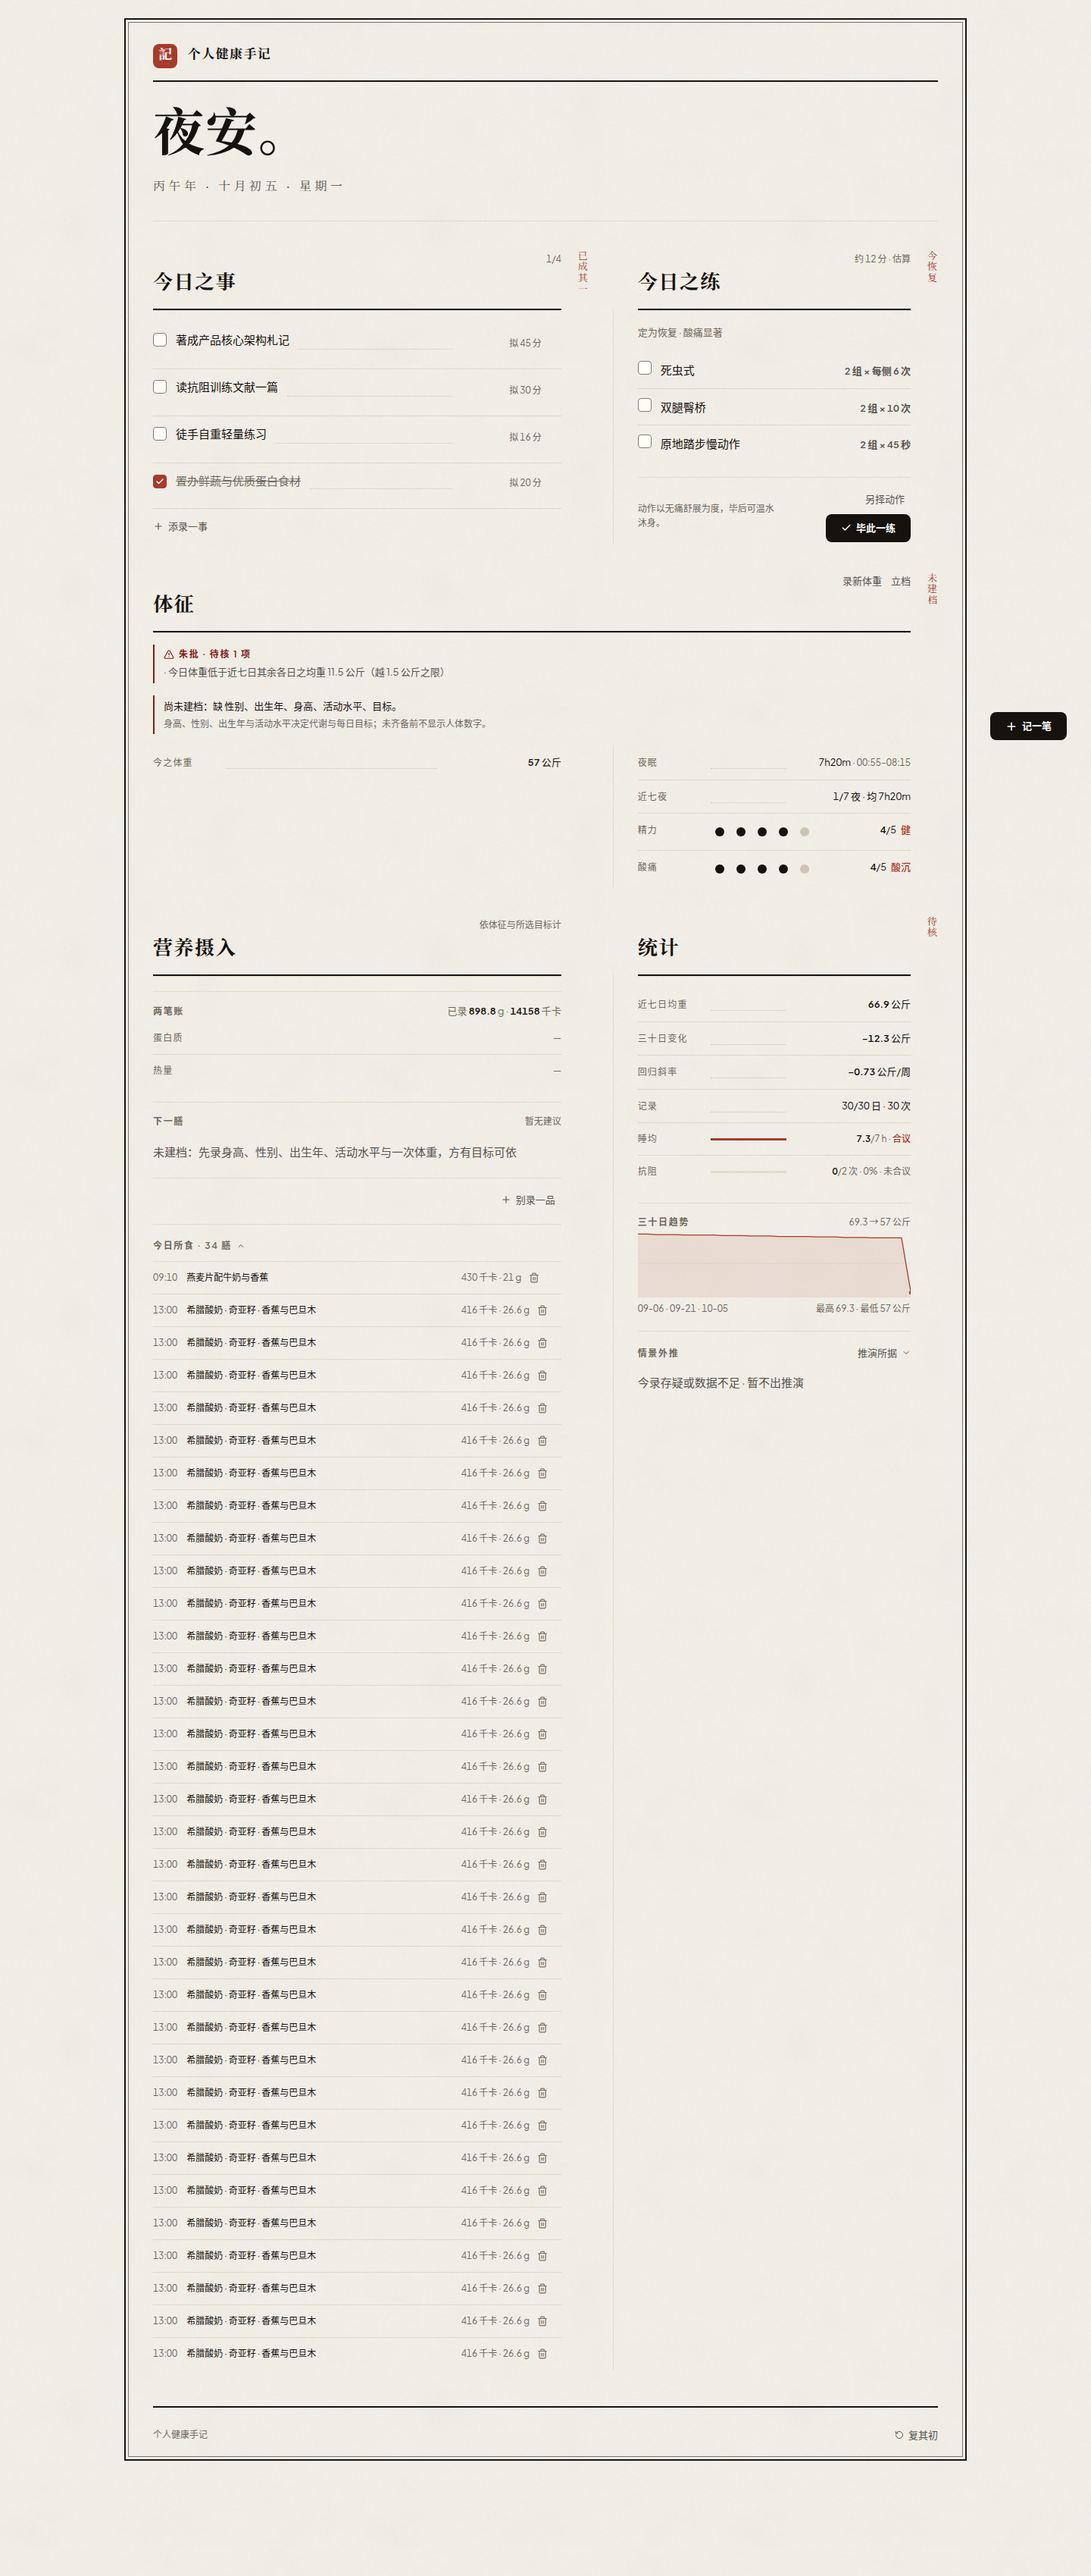
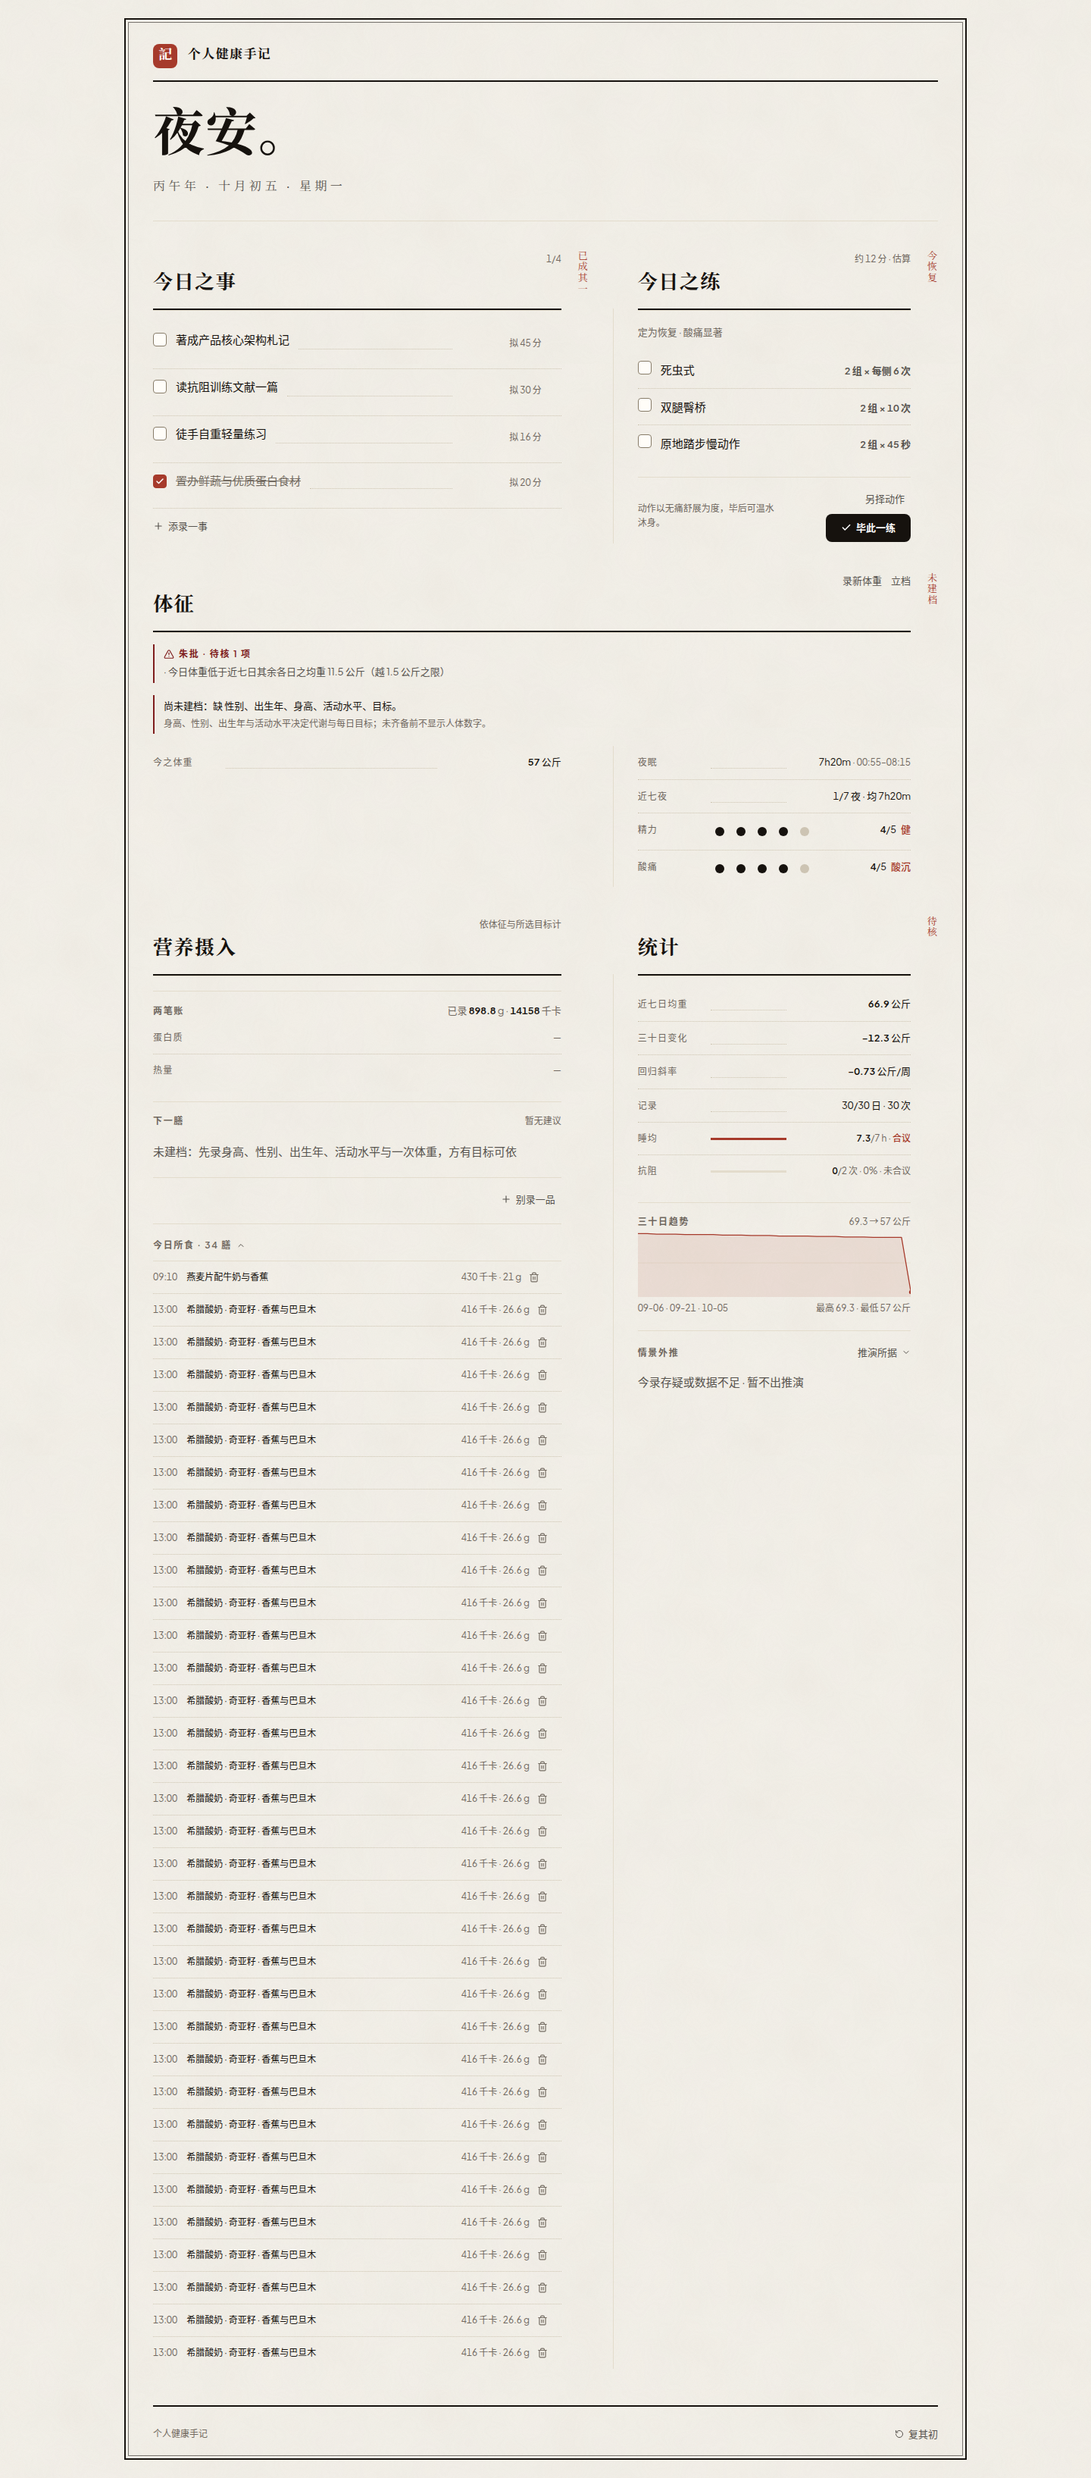
refactor(ui): 三域表单入口独立，撤全局 FAB「记一笔」
- 入口分归各节就地按钮：体重＝体征·录新体重、训练＝今日之练·另择动作
  （脚注行常在，休练之日亦可录）、饮食＝营养·别录一品（未建档亦在）；
  各开录事弹层并预选本域之签，语境与签位由入口决定
- 删全局 FAB：右下「＋ 记一笔」按钮整体移除，随删根节点 pb-32 底部让位
  与 lucide Plus 导入（页高 2289 → 2161）；表单仍收敛于同一录事弹层
  （handleSubmit 一份、校验一份）——分散的是入口，不分散表单
- 文案随改：营养空态「由「记一笔」录之」→「由「别录一品」录之」；
  foods.ts 注释、layoutContract 断言改写，并新增两条防回归
  （App 不得再含「记一笔」与「pb-32」）
- e2e 三处 FAB 点击改走就地入口（别录一品 ×2、录新体重）
- 文档：README 录事弹层行 + 变更清单 24；DESIGN user-jobs / 适配 /
  空态三处同步（无全局 FAB，页面无底部让位）
- 验证：9 套测试 + tsc + build + e2e + qa-states + 六档探针全 PASS；
  detect 5 项 report-only 无新增；截图 v4-desktop / v4-mobile

diff --git a/src/App.tsx b/src/App.tsx
@@ -10,7 +10,7 @@
 
 import { useState, useEffect, useCallback, useMemo, useRef } from 'react';
 import { motion, AnimatePresence } from 'motion/react';
-import { Plus, Check, RotateCcw, X } from 'lucide-react';
+import { Check, RotateCcw, X } from 'lucide-react';
 import { HeaderGreeting } from './components/HeaderGreeting';
 import { TodayTasks } from './components/TodayTasks';
 import { BodySection } from './components/BodySection';
@@ -502,7 +502,7 @@ export default function App() {
   };
 
   return (
-    <div className="min-h-screen text-ink selection:bg-accentsoft selection:text-ink pb-32">
+    <div className="min-h-screen text-ink selection:bg-accentsoft selection:text-ink">
       {/* Toast Feedback */}
       <AnimatePresence>
         {toast && (
@@ -649,13 +649,8 @@ export default function App() {
         </div>
       </main>
 
-      {/* 记一笔：右下墨色圆角块 */}
-      <div className="fixed bottom-6 right-6 sm:right-8 z-40">
-        <button onClick={() => handleOpenRecord('meal')} className="btn-primary">
-          <Plus className="w-4 h-4 shrink-0 stroke-[2.5]" />
-          <span>记一笔</span>
-        </button>
-      </div>
+      {/* 录入入口全部就地：体征·录新体重 / 今日之练·另择动作 / 营养·别录一品，
+          各开录事弹层预选本域之签；全局记账 FAB 已撤，入口不聚一处 */}
 
       {/* Quick Record Bottom Sheet */}
       <RecordSheet

diff --git a/src/tests/layoutContract.test.ts b/src/tests/layoutContract.test.ts
@@ -160,8 +160,10 @@ assert(read(resolve(root, 'README.md')).includes('术语与口径'), 'README 承
 
 // --- 9. 刊头/入口不留冗余（第 17 条） ------------------------------------------
 const header = comp('HeaderGreeting.tsx');
-assert(!header.includes('<button'), '刊头不放动作按钮（录一笔只在右下 FAB 一处）');
+assert(!header.includes('<button'), '刊头不放动作按钮（录入入口分归各节就地按钮：录新体重/另择动作/别录一品）');
 assert(!copyOf(header).includes('日省吾身'), '刊头不写副题式自我说明');
+assert(!app.includes('记一笔'), '全局 FAB「记一笔」已撤：录入入口分归各节就地按钮（录新体重/另择动作/别录一品）');
+assert(!app.includes('pb-32'), '页面不再为 FAB 预留底部让位');
 assert(!existsSync(resolve(compDir, 'EvidenceModal.tsx')), '稽核弹窗已删除（无入口的组件不留死代码）');
 for (const f of componentFiles) {
   assert(!comp(f).includes('EvidenceModal'), `${f} 不得再引用已删除的稽核弹窗`);

diff --git a/src/data/foods.ts b/src/data/foods.ts
@@ -3,7 +3,7 @@
  *
  * 口径：一切换算以每 100g 为基准（每克 = per100 / 100），克数由录入者决定；
  * 数值为约值，整理自《中国食物成分表（第 6 版）》与 USDA FoodData Central 的公开口径，
- * 生熟状态写在 name 里。库只在「记一笔」录入时作为可选添加项出现，主页不陈列。
+ * 生熟状态写在 name 里。库只在录事弹层「进食」页（营养·别录一品入口）录入时作为可选添加项出现，主页不陈列。
  *
  * 严格边界：库内条目只供给录入与膳食质量评估（食物组/纤维），绝不反向生成「已录」事实；
  * ml 口径按 1:1 折克（乳与饮近似），已在 serving 注明。

diff --git a/src/components/NutritionSection.tsx b/src/components/NutritionSection.tsx
@@ -207,7 +207,7 @@ export const NutritionSection: React.FC<NutritionSectionProps> = ({
 
         {showMealLog && meals.length === 0 && (
           <p className="mt-2 border-t border-line pt-2 text-[12px] text-ink3">
-            今日尚未入账一膳 · 由「记一笔」录之
+            今日尚未入账一膳 · 由「别录一品」录之
           </p>
         )}
       </div>

diff --git a/README.md b/README.md
@@ -24,7 +24,7 @@
 | **体征（通栏）** | 只收**原始事实**，不放示数：今之体重与「录新体重」、建档所录（身高 / 性别 / 岁 / 活动水平 / 腰围）、夜眠**由就寝/起身时刻推得**与近七夜（只按有记录夜数平均）、精力 (1–5)、酸痛 (1–5) 圆点（`DotScale`，点按即调）；数据待核朱批集中于此；未建档只显示缺什么，绝不拿演示数据冒充 |
 | **营养摄入（配对行二 · 左）** | **依个人体征与饮食目标算出今日之标**：每日热量、每日蛋白（1.4–2.0 g/kg 区间）、每日脂肪与碳水，练日按「×1.1 且至多 +400」上浮（标「练日」）；两笔账（**未达「尚余」、超出「已超」**）、下一膳（基于已摄入缺口排序推荐，给出**热量与蛋白质区间**，「照准」一键入账）、今日所食逐条「掷还」 |
 | **统计（配对行二 · 右）** | 一切**算出来的数**集中于此：体重指数（WHO 分类）、静息代谢（Mifflin-St Jeor）、总消耗（RMR×PAL）、每周抗阻处方；趋势与均值——近七日均重（留一基线）、三十日变化（端点）与回归斜率**分列**、记录（有效日/原始条数）、睡均与本周抗阻对照 AASM / WHO 合议；附三十日趋势折线（**全页唯一图表**）与情景外推（四周/八周/十二周，`scenario_trend_projection`，标注模型版本与依据日数，数据存疑即暂阙） |
-| **录事弹层** | 底部弹层，三签：进食 / 习练 / 体征；**进食页内嵌食物营养档案库**（115 品、每 100g 的热量/蛋白质/脂肪），搜名即现、点选自动回填克数与约计；文本框下另有「＋库中择品」——点开**三列名称下滑栏**免打字直选（档案库只在录入时出现，不占主页） |
+| **录事弹层** | 底部弹层，三签：进食 / 习练 / 体征；**进食页内嵌食物营养档案库**（115 品、每 100g 的热量/蛋白质/脂肪），搜名即现、点选自动回填克数与约计；文本框下另有「＋库中择品」——点开**三列名称下滑栏**免打字直选（档案库只在录入时出现，不占主页）。**入口分就地**：体征·录新体重 / 今日之练·另择动作 / 营养·别录一品，各开弹层预选本域之签；**无全局 FAB「记一笔」** |
 | **决策痕迹（数据层）** | 引擎每次推荐都产出 `trace`（输入快照 / 推导值 / 前提 / 局限）与 `evidenceTraces`（证据出处）；页面不再设稽核弹窗，口径与阈值见本文件「术语与口径」 |
 | **复其初** | 页脚一键恢复到初始的三十日模拟数据 |
 
@@ -317,6 +317,12 @@ npm run build
     - **进食页「＋库中择品」**（第 2 点）：食物文本框下加加号按钮，点开**三列名称下滑栏**（档案库 115 品只列名称），点名即入「已选之物」（默认克数、可连点多选、重复不入账）；Esc 或点栏外即阖（capture 抢在弹层 Esc 之前，先阖栏再阖弹层），开栏时与打字建议二选一免双列表。
     - **探针随改**：修正墨线量测（取 `border-b-2` 祖先而非 h2 父级）；新增「折缝条数 ≥3 ＋ 折缝顶端不越墨线」断言，六档全绿。
     - **验证**：9 套测试 + `tsc` + `build` + e2e + qa-states + 六档探针全 PASS；本条另附记录入口设计哲学讨论（用户第 4 点，见当轮答复，未改代码）。
+
+24. **入口分归各节，撤全局 FAB「记一笔」**（本轮，用户依入口哲学定夺）：
+    - **三域入口独立**：体重＝体征·「录新体重」、训练＝今日之练·「另择动作」（脚注行常在，休练之日亦可录）、饮食＝营养·「别录一品」（未建档亦在）——各开录事弹层并预选本域之签，语境与签位由入口决定。
+    - **删全局 FAB**：右下「＋ 记一笔」按钮整体移除，随删 `pb-32` 底部让位与 `Plus` 导入；表单仍收敛于同一录事弹层（`handleSubmit` 一份、校验一份、落库一条路）——**分散的是入口，不分散表单**。
+    - **文案与契约随改**：营养空态「由「记一笔」录之」→「由「别录一品」录之」；`foods.ts` 注释、`layoutContract` 断言改写，并**新增两条防回归**（App 不得再含「记一笔」与「pb-32」）；e2e 三处 FAB 点击改走就地入口。
+    - **验证**：9 套测试 + `tsc` + `build` + e2e + qa-states + 六档探针全 PASS；detect 5 项 report-only 无新增。
 
 ### 仍待补齐（真实项目的下一步）
 

diff --git a/DESIGN.md b/DESIGN.md
@@ -31,7 +31,7 @@
 
 ## Personas and jobs
 - Primary personas: 唯一用户——记录自己健康账目的中文使用者，桌面查、手机记。
-- User jobs: ① 今日要做什么、练什么（今日之事 ↔ 今日之练同一配对行，先看裁决再看清单）② 体征如何（体征通栏：睡眠、体感、今之体重、档案所录）③ 该吃多少、吃了多少（营养摄入：与统计同行，今日之标、两笔账、下一膳、所食账）④ 是否在正轨（统计：与营养摄入同行，派生数、趋势、合议、情景外推）⑤ 随手记一笔（右下 FAB）。
+- User jobs: ① 今日要做什么、练什么（今日之事 ↔ 今日之练同一配对行，先看裁决再看清单）② 体征如何（体征通栏：睡眠、体感、今之体重、档案所录）③ 该吃多少、吃了多少（营养摄入：与统计同行，今日之标、两笔账、下一膳、所食账）④ 是否在正轨（统计：与营养摄入同行，派生数、趋势、合议、情景外推）⑤ 记录就地落笔（入口分归各节：体征·录新体重 / 今日之练·另择动作 / 营养·别录一品；无全局 FAB，表单收敛于同一录事弹层）。
 - Key contexts of use: 桌面 1440 浏览全页；手机 390 单手速记；两者都要求扫读时先看到「裁决」再看到细节。
 
 ## Information architecture
@@ -108,11 +108,11 @@
 ## Responsive behavior
 - Supported breakpoints/devices: 1440 / 1024 / 768（单栏分界）/ 390。
 - Layout adaptations: `lg:` 起启用两处配对行（同 `1.45fr | auto | 1fr` 网格 + 折缝，列缘上下对齐）+ 竖排旁批；通栏体征内部同网格分两栏带中缝；三处折缝自章节头墨线起、不越黑线；通栏其余两栏并置也只在 `lg:` 起；`sm:` 起动作脚注改一行两端；其余单栏按 DOM 次序流下。探针要求五档 `overflow = 0`。
-- Touch/hero differences: 移动端动作整行另起、右对齐；点阵与复选框保持 24px 热区；FAB「记一笔」常驻，页面 `pb-32` 让位。
+- Touch/hero differences: 移动端动作整行另起、右对齐；点阵与复选框保持 24px 热区；录入入口全部就地（无全局 FAB），页面无底部让位。
 
 ## Interaction states
 - Loading: 「手记启卷…」+ 6px 朱点（居中纸面）。
-- Empty: 无待办 → 朱批「今日无事」；未入账 → 「今日尚未入账一膳 · 由「记一笔」录之」，计量条渲染 `—`；无动作 → 不渲染空脚注行。
+- Empty: 无待办 → 朱批「今日无事」；未入账 → 「今日尚未入账一膳 · 由「别录一品」录之」，计量条渲染 `—`；无动作 → 不渲染空脚注行。
 - Error: `runMutation` 失败 Toast **不冠**「知道了 ·」，格式「膳食之录未成（code）」；加载失败整页重试态。
 - Success: Toast「知道了 · <事实>」+ 朱亮色勾；完成态徽标 `bg-accentsoft / border-accentline / text-accent`。
 - Disabled: 提交按钮随表单校验禁用（e2e 锁定进食页「所食为空不可提交」、训练页不提交空动作）。
